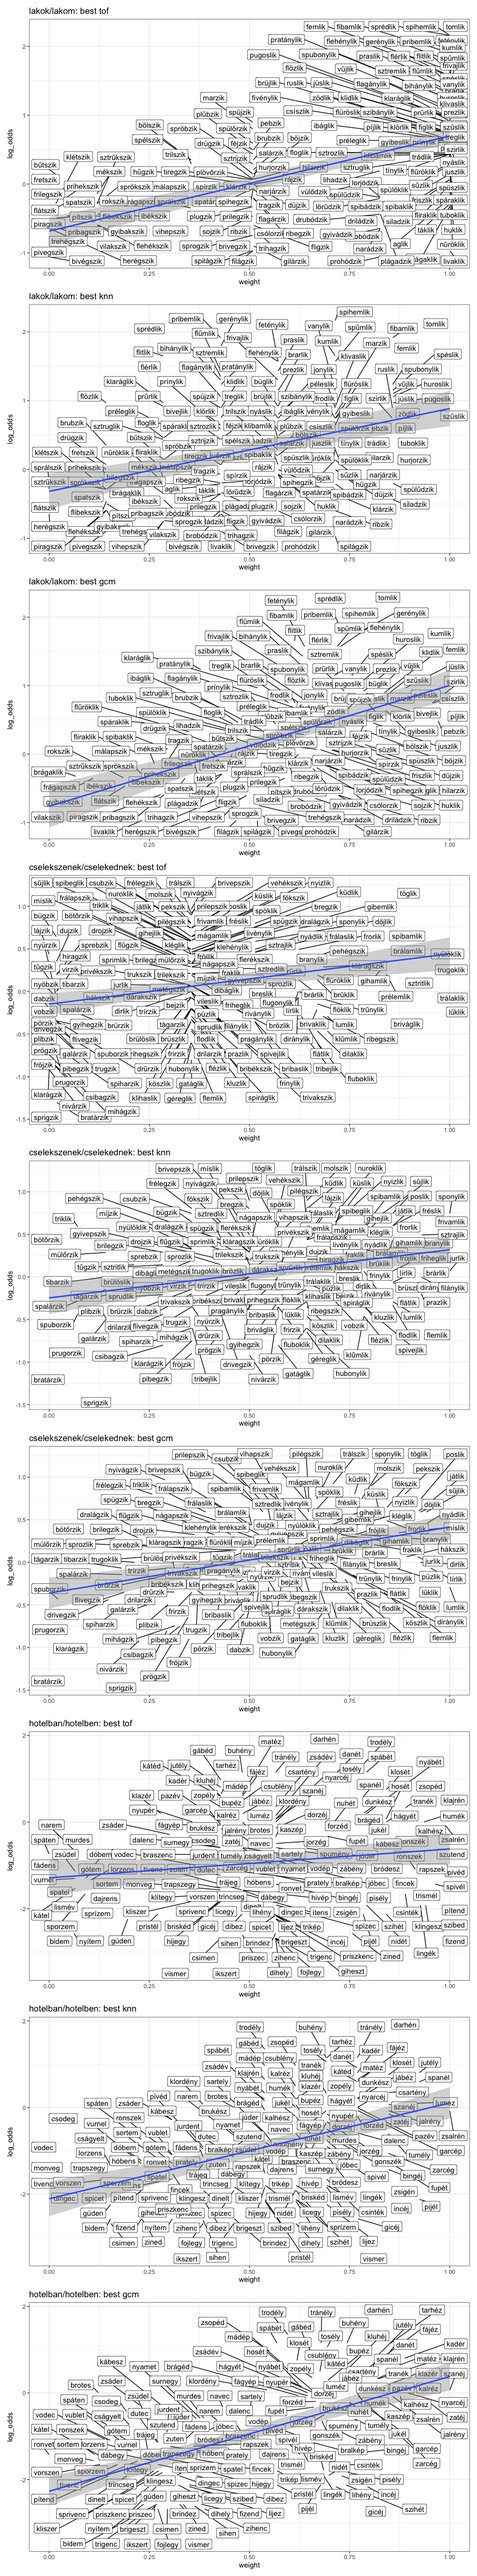
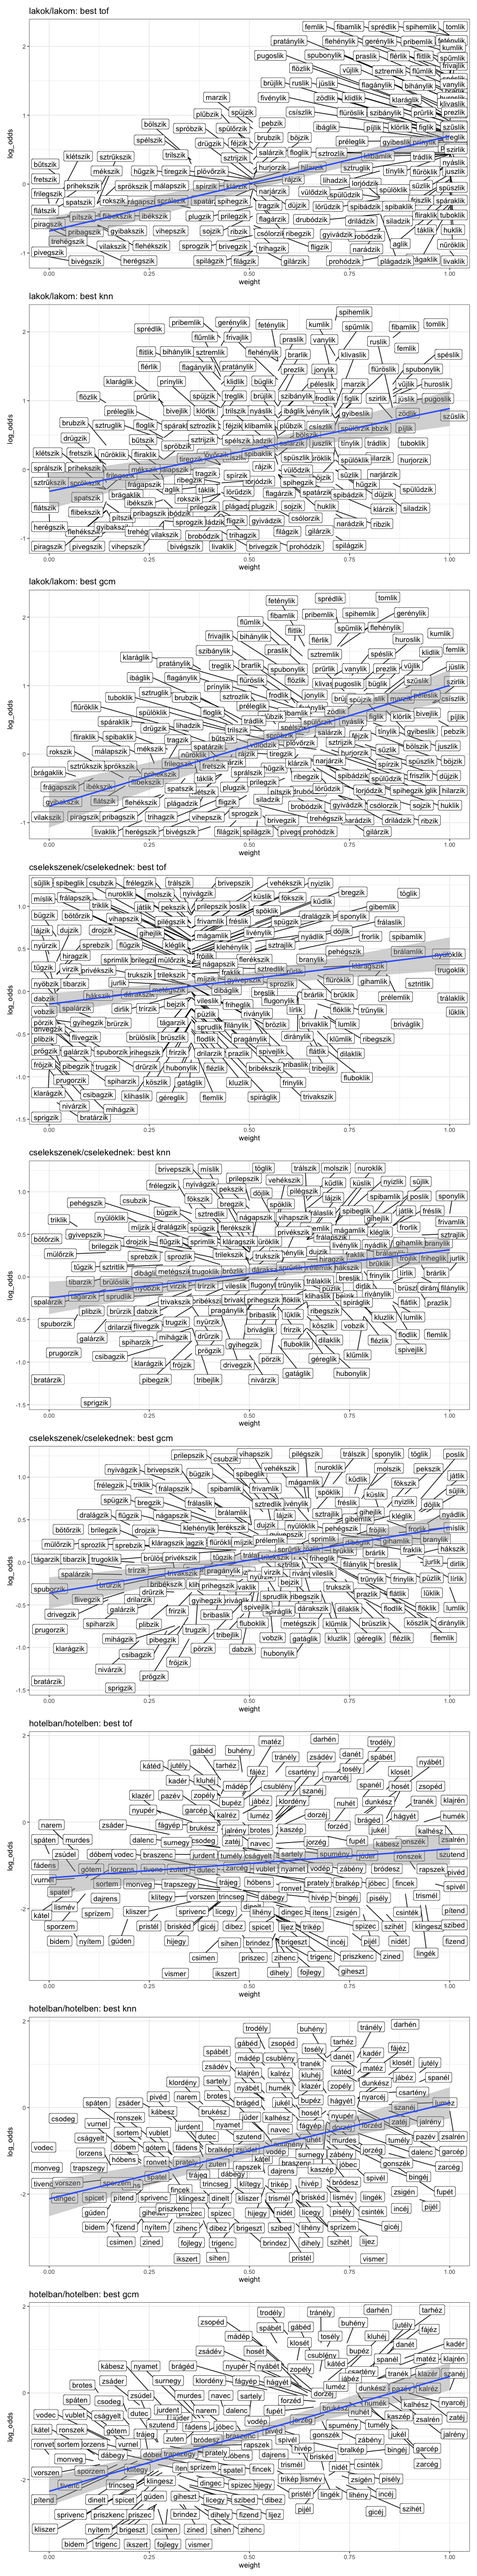
whoops s2

Changed region(s): [[0.0625, 0.0, 0.9688, 0.5312], [0.0625, 0.7812, 0.9688, 1.0], [0.0625, 0.5625, 0.9688, 0.6562]]

diff --git a/Readme.md b/Readme.md
@@ -483,9 +483,11 @@ odds (large log odds: lot of “high” responses).
 
 We categorise test words based on similarity with training words using a
 K-Nearest Neighbours algorithm. The algorithm calculates word distance
-using the formula `exp ( - dist / s ) ^ p`.
+using the formula `exp ( - dist / s ) ^ p`. The parameter
+`s' is not relevant here as the number of comparisons is controlled by`k’,
+reducing the formula to `exp ( - dist ) ^ p`.
 
-We try `k = [1,3,5,7,15]`, `p = [1,2]`, and `s = [.1,.3,.5,.7,.9]` and
+We try `k = [1,3,5,7,15]`, `p = [1,2]` and
 `dist = [edit distance, jaccard distance, phonological distance]`. Edit
 distance tallies up the number of edits needed to get from Word A to
 Word B. Jaccard distance is the set size of the intersect of segments in
@@ -511,12 +513,13 @@ which favours the least noise over the largest effect.
 my_parameters_1 = crossing(
   var_p = c(1,2),
   var_k = c(1,2,3,5,7,15),
-  var_s = c(.1,.3,.5,.7,.9),
+  # var_s = c(.1,.3,.5,.7,.9),
+  var_s = 1,
   distance_type = c('edit','jaccard','phon'),
   variation = c('lakok/lakom','hotelban/hotelben','cselekszenek/cselekednek')
 )
 
-# run 540 models, parallelised, add prediction tibbles to each model
+# run 108 models, parallelised, add prediction tibbles to each model
 my_knns = my_parameters_1 %>% 
   mutate(
     knn = furrr::future_pmap(list(variation,distance_type,var_p,var_s,var_k), ~ wrapKNN(
@@ -544,35 +547,19 @@ my_knns2 = my_knns %>%
 
 | var_p | var_k | var_s | distance_type | variation                | estimate | std.error | statistic | sig    |
 |------:|------:|------:|:--------------|:-------------------------|---------:|----------:|----------:|:-------|
-|     1 |    15 |   0.1 | phon          | cselekszenek/cselekednek |     0.61 |      0.14 |      4.29 | \*\*\* |
-|     1 |    15 |   0.1 | jaccard       | hotelban/hotelben        |     2.81 |      0.19 |     14.91 | \*\*\* |
-|     1 |     7 |   0.1 | edit          | lakok/lakom              |     1.23 |      0.13 |      9.20 | \*\*\* |
+|     1 |    15 |     1 | phon          | cselekszenek/cselekednek |     0.61 |      0.14 |      4.29 | \*\*\* |
+|     1 |    15 |     1 | jaccard       | hotelban/hotelben        |     2.81 |      0.19 |     14.91 | \*\*\* |
+|     1 |     7 |     1 | edit          | lakok/lakom              |     1.23 |      0.13 |      9.20 | \*\*\* |
 
 Table: Best KNN model for each variation.
 
 All three models can explain some variation in the test data. The
 ‘cselekszenek’ model uses phonological distance and the largest k, k=15.
 For ‘hotelban’, the best model also uses the largest k and jaccard
-distance. For ‘lakok’, the best model uses k=7 and edit distance. All
-three best models have an s = .1 which relatively penalises more distant
-neighbours over closer neighbours.
+distance. For ‘lakok’, the best model uses k=7 and edit distance.
 
 We can look at the best model for each segment distance type and
 variation.
-
-| var_p | var_k | var_s | distance_type | variation                | term          | estimate | std.error | statistic | sig    |
-|------:|------:|------:|:--------------|:-------------------------|:--------------|---------:|----------:|----------:|:-------|
-|     1 |     7 |   0.1 | edit          | cselekszenek/cselekednek | category_high |     0.41 |      0.12 |      3.36 | \*\*\* |
-|     1 |     2 |   0.1 | jaccard       | cselekszenek/cselekednek | category_high |     0.31 |      0.08 |      3.92 | \*\*\* |
-|     1 |    15 |   0.1 | phon          | cselekszenek/cselekednek | category_high |     0.61 |      0.14 |      4.29 | \*\*\* |
-|     1 |    15 |   0.1 | edit          | hotelban/hotelben        | category_high |     3.03 |      0.21 |     14.37 | \*\*\* |
-|     1 |    15 |   0.1 | jaccard       | hotelban/hotelben        | category_high |     2.81 |      0.19 |     14.91 | \*\*\* |
-|     1 |    15 |   0.1 | phon          | hotelban/hotelben        | category_high |     2.67 |      0.20 |     13.67 | \*\*\* |
-|     1 |     7 |   0.1 | edit          | lakok/lakom              | category_high |     1.23 |      0.13 |      9.20 | \*\*\* |
-|     1 |    15 |   0.1 | jaccard       | lakok/lakom              | category_high |     0.80 |      0.22 |      3.60 | \*\*\* |
-|     1 |    15 |   0.1 | phon          | lakok/lakom              | category_high |     1.44 |      0.17 |      8.31 | \*\*\* |
-
-Table: Best KNN model for each variation and distance type.
 
 For ‘cselekszenek’ and ‘hotelban’, the models don’t differ much in
 accuracy depending on distance. For ‘lakok’, jaccard distance is
@@ -868,14 +855,6 @@ best model has the strongest predictor for score. This is the same as
 what we did for the K-Nearest Neighbours Model and the Generalised
 Context Model.
 
-| variation                | alpha_upper | alpha_lower | estimate | std.error | statistic | sig    |
-|:-------------------------|------------:|------------:|---------:|----------:|----------:|:-------|
-| cselekszenek/cselekednek |        0.25 |        0.90 |     6.51 |      1.32 |      4.92 | \*\*\* |
-| hotelban/hotelben        |        0.25 |        0.25 |     2.49 |      0.47 |      5.28 | \*\*\* |
-| lakok/lakom              |        0.25 |        0.25 |     4.18 |      0.27 |     15.31 | \*\*\* |
-
-Table: Best tiny overlap finder models for each variable pattern
-
 The tiny overlap finder is able to predict participant behaviour to some
 extent for all three patterns.
 
@@ -889,13 +868,13 @@ finder?
 | variation                | model | estimate | std.error | statistic | sig    | distance_type | var_s | var_p | alpha_lower | alpha_upper |
 |:-------------------------|:------|---------:|----------:|----------:|:-------|:--------------|------:|------:|------------:|------------:|
 | cselekszenek/cselekednek | GCM   |    36.23 |      6.23 |      5.81 | \*\*\* | edit          |   0.3 |     2 |             |             |
-| cselekszenek/cselekednek | KNN   |     0.61 |      0.14 |      4.29 | \*\*\* | phon          |   0.1 |     1 |             |             |
+| cselekszenek/cselekednek | KNN   |     0.61 |      0.14 |      4.29 | \*\*\* | phon          |   1.0 |     1 |             |             |
 | cselekszenek/cselekednek | TOF   |     6.51 |      1.32 |      4.92 | \*\*\* | edit          |       |       |        0.90 |        0.25 |
 | hotelban/hotelben        | GCM   |   499.57 |     26.32 |     18.98 | \*\*\* | jaccard       |   0.3 |     2 |             |             |
-| hotelban/hotelben        | KNN   |     2.81 |      0.19 |     14.91 | \*\*\* | jaccard       |   0.1 |     1 |             |             |
+| hotelban/hotelben        | KNN   |     2.81 |      0.19 |     14.91 | \*\*\* | jaccard       |   1.0 |     1 |             |             |
 | hotelban/hotelben        | TOF   |     2.49 |      0.47 |      5.28 | \*\*\* | edit          |       |       |        0.25 |        0.25 |
 | lakok/lakom              | GCM   |    27.97 |      2.40 |     11.66 | \*\*\* | phon          |   0.9 |     2 |             |             |
-| lakok/lakom              | KNN   |     1.23 |      0.13 |      9.20 | \*\*\* | edit          |   0.1 |     1 |             |             |
+| lakok/lakom              | KNN   |     1.23 |      0.13 |      9.20 | \*\*\* | edit          |   1.0 |     1 |             |             |
 | lakok/lakom              | TOF   |     4.18 |      0.27 |     15.31 | \*\*\* | edit          |       |       |        0.25 |        0.25 |
 
 Table: Best best Generalised Context Model (GCM), K-nearest neighbours
@@ -931,20 +910,20 @@ resp2 in the three variable sets, using the best tiny overlap finder,
 generalised context model, and k-nearest neighbour model predictions
 together. We scale predictors and check for collinearity.
 
-| variation                | term        | estimate | std.error | statistic | p.value |
-|:-------------------------|:------------|---------:|----------:|----------:|--------:|
-| cselekszenek/cselekednek | (Intercept) |    -0.38 |      0.09 |     -4.45 |    0.00 |
-| cselekszenek/cselekednek | tof         |     0.36 |      0.14 |      2.60 |    0.01 |
-| cselekszenek/cselekednek | knn         |    -0.11 |      0.21 |     -0.53 |    0.60 |
-| cselekszenek/cselekednek | gcm         |     0.69 |      0.22 |      3.22 |    0.00 |
-| hotelban/hotelben        | (Intercept) |    -2.26 |      0.12 |    -19.48 |    0.00 |
-| hotelban/hotelben        | tof         |    -0.08 |      0.15 |     -0.57 |    0.57 |
-| hotelban/hotelben        | knn         |    -0.12 |      0.26 |     -0.45 |    0.65 |
-| hotelban/hotelben        | gcm         |     2.93 |      0.25 |     11.88 |    0.00 |
-| lakok/lakom              | (Intercept) |    -1.04 |      0.10 |    -10.35 |    0.00 |
-| lakok/lakom              | tof         |     1.20 |      0.11 |     11.00 |    0.00 |
-| lakok/lakom              | knn         |    -0.21 |      0.18 |     -1.19 |    0.24 |
-| lakok/lakom              | gcm         |     0.97 |      0.20 |      4.84 |    0.00 |
+| variation                | term        | estimate | std.error | statistic | conf.low | conf.high |
+|:-------------------------|:------------|---------:|----------:|----------:|---------:|----------:|
+| cselekszenek/cselekednek | (Intercept) |    -0.38 |      0.09 |     -4.45 |    -0.55 |     -0.22 |
+| cselekszenek/cselekednek | tof         |     0.36 |      0.14 |      2.60 |     0.09 |      0.64 |
+| cselekszenek/cselekednek | knn         |    -0.11 |      0.21 |     -0.53 |    -0.52 |      0.30 |
+| cselekszenek/cselekednek | gcm         |     0.69 |      0.22 |      3.22 |     0.27 |      1.12 |
+| hotelban/hotelben        | (Intercept) |    -2.26 |      0.12 |    -19.48 |    -2.49 |     -2.04 |
+| hotelban/hotelben        | tof         |    -0.08 |      0.15 |     -0.57 |    -0.38 |      0.21 |
+| hotelban/hotelben        | knn         |    -0.12 |      0.26 |     -0.45 |    -0.64 |      0.40 |
+| hotelban/hotelben        | gcm         |     2.93 |      0.25 |     11.88 |     2.45 |      3.42 |
+| lakok/lakom              | (Intercept) |    -1.04 |      0.10 |    -10.35 |    -1.24 |     -0.85 |
+| lakok/lakom              | tof         |     1.20 |      0.11 |     11.00 |     0.99 |      1.42 |
+| lakok/lakom              | knn         |    -0.21 |      0.18 |     -1.19 |    -0.57 |      0.14 |
+| lakok/lakom              | gcm         |     0.97 |      0.20 |      4.84 |     0.58 |      1.36 |
 
 Ensemble model estimates for the three variable patterns.
 
@@ -1007,8 +986,8 @@ It also helps that this pattern is restricted to one paradigm slot,
 
 ## Visualisations
 
-The best model for each model type and variation. Scales are free so
-distributions can be compared.
+The best model for each model type and variation. Model scores are
+rescaled for each variation.
 
 ![](figures/viz-1.png)<!-- -->
 
